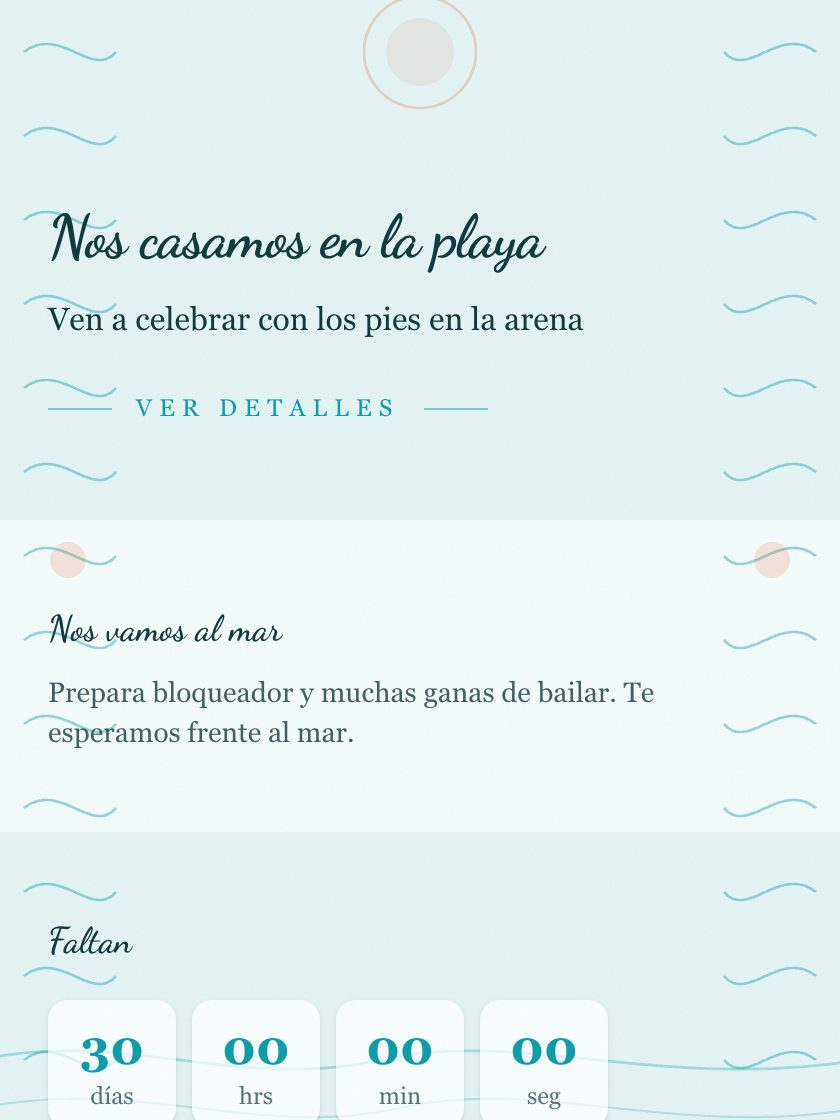
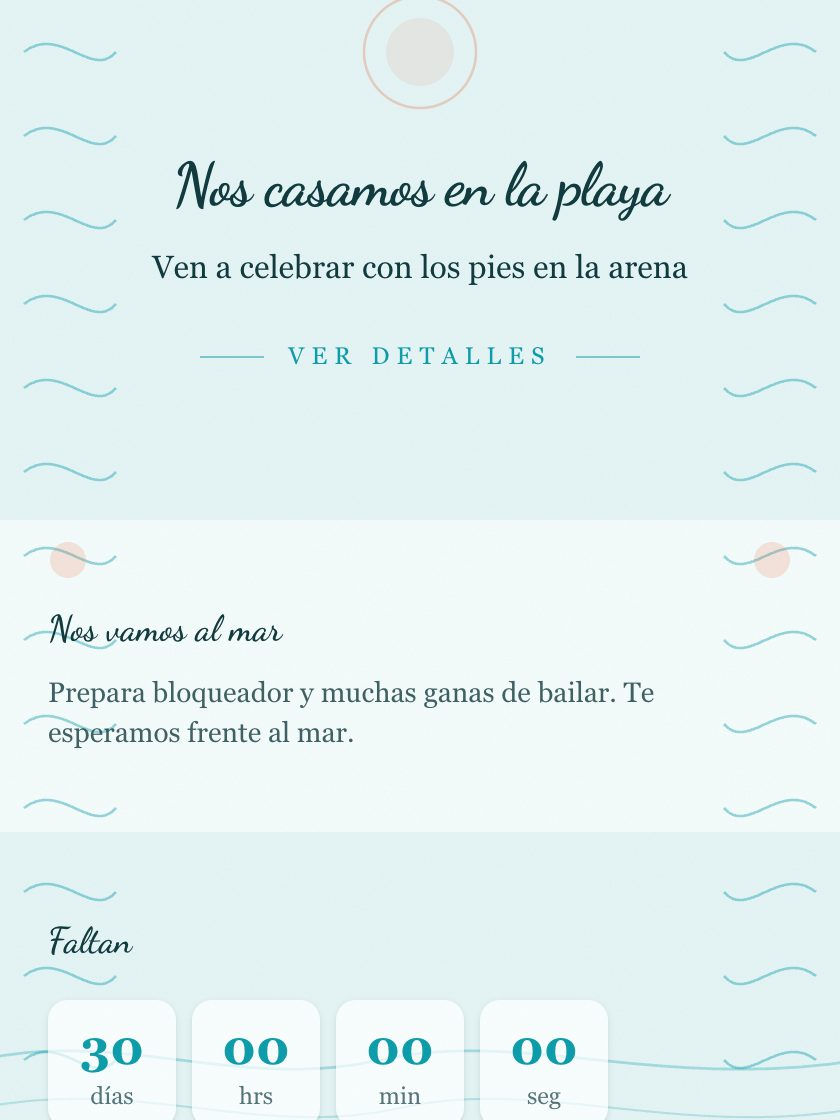
chore(catalogo): miniaturas de boda-destino y boda-en-la-playa tras la 0043
BODA CERRADA en fondo y en composicion. Verificado contra la BD: 13 fondos
distintos, 13 combinaciones de (variant, frame, align) sin repetir, y CERO
plantillas en todo el catalogo con una variante que pide foto sin tenerla.

Las dos miradas: el titulo vuelve a estar centrado y con jerarquia de portada.

REVISION_MINIATURAS -> 202609091921.

Changed region(s): [[0.0619, 0.125, 0.8357, 0.25], [0.0619, 0.2812, 0.7119, 0.375]]

diff --git a/src/lib/invitations/template-preview.ts b/src/lib/invitations/template-preview.ts
@@ -67,4 +67,4 @@ export const ESCALA_CAPTURA = 2;
  * optimizador y la del navegador, y evita tener que renombrar 50 archivos o
  * volver a escribir 50 URLs en la BD en cada regeneración.
  */
-export const REVISION_MINIATURAS = "202609091913";
+export const REVISION_MINIATURAS = "202609091921";
